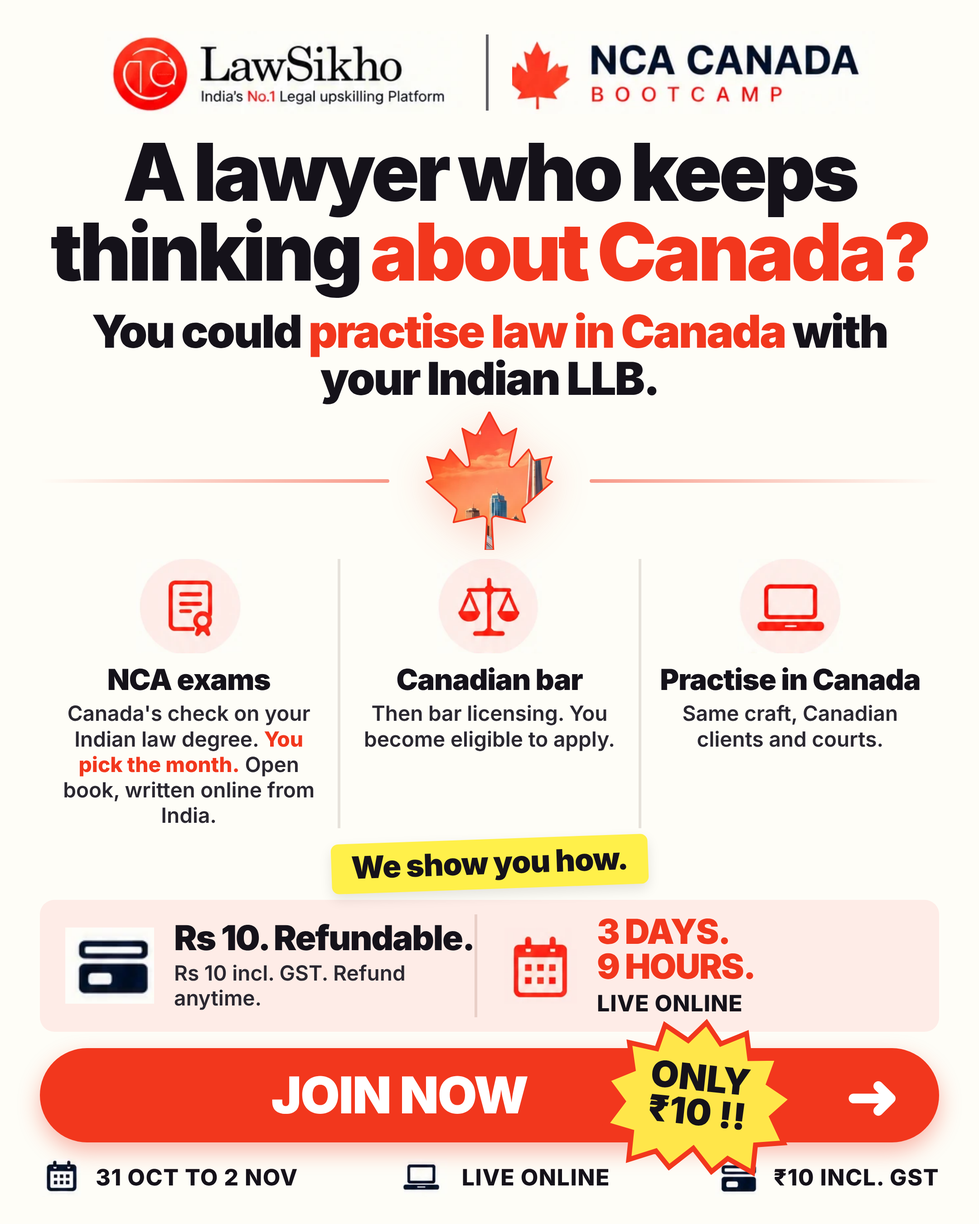
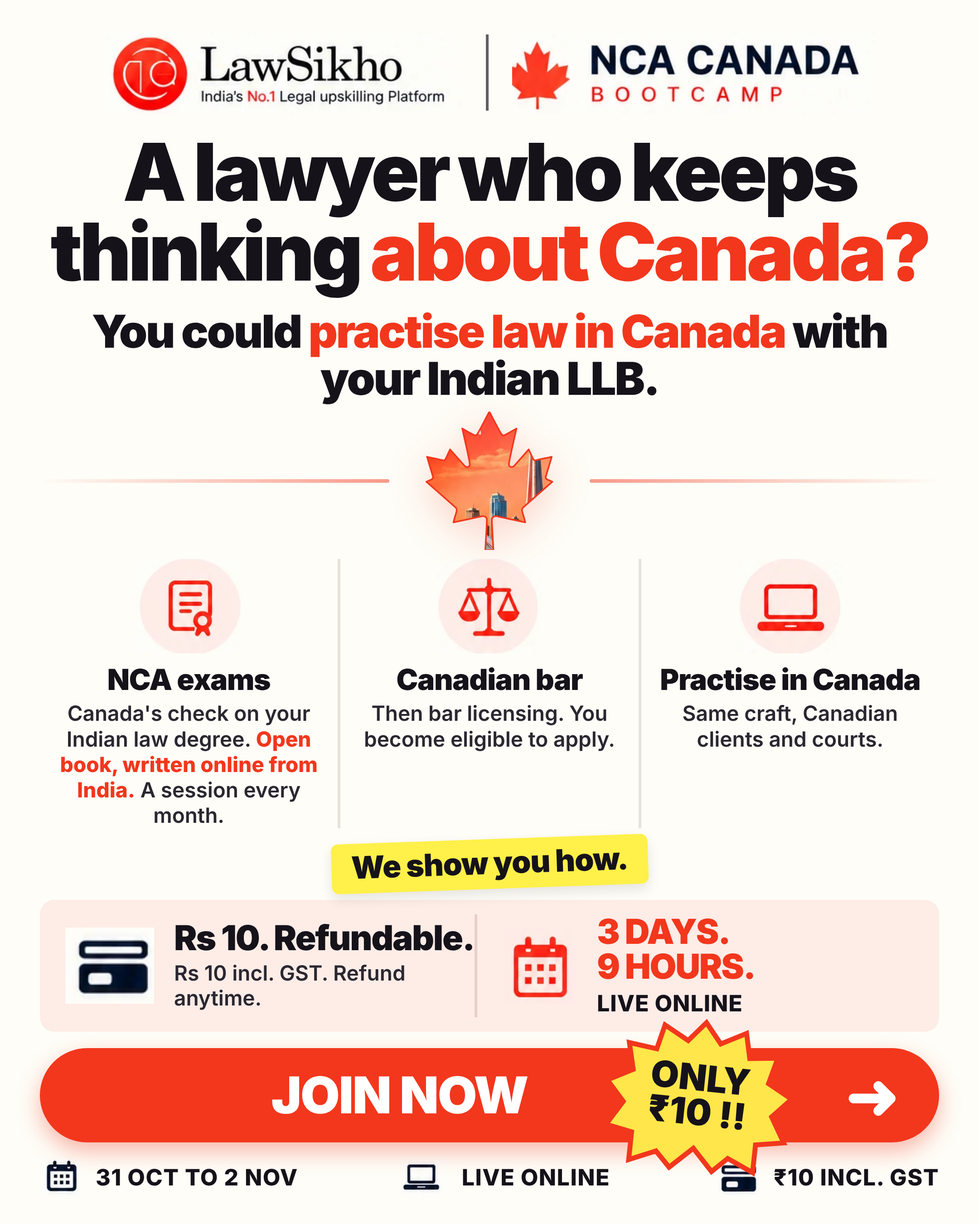
NCA exams pillar: match the checked exam-schedule fact
The base branch fix (sourced to nca.legal exam schedules) shows a session
runs every month but each core subject comes round about every third month,
so 'You pick the month' overclaimed. The line now reads: Open book, written
online from India. A session every month.

Claude-Session: https://claude.ai/code/session_01Rgy1nQS1Vhzfu9YdFrEqSi

Changed region(s): [[0.062, 0.5911, 0.3412, 0.6844]]

diff --git a/creatives/NCA_SkylineTemplate/html/nca_sky_01_broad_thinking_about_canada.html b/creatives/NCA_SkylineTemplate/html/nca_sky_01_broad_thinking_about_canada.html
@@ -46,7 +46,7 @@ em{font-style:normal;color:#F2371D}
 <div class="leafbox"><div class="rule l"></div><div class="leafwrap"><svg viewBox="0 0 512 512" preserveAspectRatio="xMidYMid meet"><defs><clipPath id="leaf"><path d="M383.8 351.7c2.5-2.5 105.2-92.4 105.2-92.4l-17.5-7.5c-10-4.9-7.4-11.5-5-17.4 2.4-7.6 20.1-67.3 20.1-67.3s-47.7 10-57.7 12.5c-7.5 2.4-10-2.5-12.5-7.5s-15-32.4-15-32.4-52.6 59.9-55.1 62.3c-10 7.5-20.1 0-17.6-10 0-10 27.6-129.6 27.6-129.6s-30.1 17.4-40.1 22.4c-7.5 5-12.6 5-17.6-5C293.5 72.3 255.9 0 255.9 0s-37.5 72.3-42.5 79.8c-5 10-10 10-17.6 5-10-5-40.1-22.4-40.1-22.4s27.6 119.6 27.6 129.6c2.5 10-7.5 17.5-17.5 10-2.5-2.5-55.1-62.3-55.1-62.3s-12.5 27.5-15 32.4c-2.5 5.1-5 10-12.5 7.5-10-2.5-57.7-12.5-57.7-12.5s17.7 59.7 20.1 67.3c2.4 6 5 12.5-5 17.4L23 259.3s102.6 89.9 105.2 92.4c5.1 5 10 7.5 5.1 22.5-5.1 15-10.1 35.1-10.1 35.1s95.2-20.1 105.3-22.6c8.7-.9 18.3 2.5 18.3 12.5S241 512 241 512h30s-5.8-102.7-5.8-112.8 9.5-13.4 18.3-12.5c10 2.5 105.3 22.6 105.3 22.6s-5-20.1-10.1-35.1c-4.9-15 0-17.5 5.1-22.5z"/></clipPath></defs>
 <image href="../assets/skyline_fill.png" x="0" y="0" width="512" height="512" preserveAspectRatio="xMidYMid slice" clip-path="url(#leaf)"/>
 <path d="M383.8 351.7c2.5-2.5 105.2-92.4 105.2-92.4l-17.5-7.5c-10-4.9-7.4-11.5-5-17.4 2.4-7.6 20.1-67.3 20.1-67.3s-47.7 10-57.7 12.5c-7.5 2.4-10-2.5-12.5-7.5s-15-32.4-15-32.4-52.6 59.9-55.1 62.3c-10 7.5-20.1 0-17.6-10 0-10 27.6-129.6 27.6-129.6s-30.1 17.4-40.1 22.4c-7.5 5-12.6 5-17.6-5C293.5 72.3 255.9 0 255.9 0s-37.5 72.3-42.5 79.8c-5 10-10 10-17.6 5-10-5-40.1-22.4-40.1-22.4s27.6 119.6 27.6 129.6c2.5 10-7.5 17.5-17.5 10-2.5-2.5-55.1-62.3-55.1-62.3s-12.5 27.5-15 32.4c-2.5 5.1-5 10-12.5 7.5-10-2.5-57.7-12.5-57.7-12.5s17.7 59.7 20.1 67.3c2.4 6 5 12.5-5 17.4L23 259.3s102.6 89.9 105.2 92.4c5.1 5 10 7.5 5.1 22.5-5.1 15-10.1 35.1-10.1 35.1s95.2-20.1 105.3-22.6c8.7-.9 18.3 2.5 18.3 12.5S241 512 241 512h30s-5.8-102.7-5.8-112.8 9.5-13.4 18.3-12.5c10 2.5 105.3 22.6 105.3 22.6s-5-20.1-10.1-35.1c-4.9-15 0-17.5 5.1-22.5z" fill="none" stroke="#F2371D" stroke-width="6" stroke-linejoin="round"/></svg></div><div class="rule r"></div></div>
-<div class="pillars"><div class="pil"><img src="../assets/icon_nca.png"><div class="pt">NCA exams</div><div class="pd">Canada's check on your Indian law degree. <em>You pick the month.</em> Open book, written online from India.</div></div><div class="pil"><img src="../assets/icon_bar.png"><div class="pt">Canadian bar</div><div class="pd">Then bar licensing. You become eligible to apply.</div></div><div class="pil"><img src="../assets/icon_laptop.png"><div class="pt">Practise in Canada</div><div class="pd">Same craft, Canadian clients and courts.</div></div></div>
+<div class="pillars"><div class="pil"><img src="../assets/icon_nca.png"><div class="pt">NCA exams</div><div class="pd">Canada's check on your Indian law degree. <em>Open book, written online from India.</em> A session every month.</div></div><div class="pil"><img src="../assets/icon_bar.png"><div class="pt">Canadian bar</div><div class="pd">Then bar licensing. You become eligible to apply.</div></div><div class="pil"><img src="../assets/icon_laptop.png"><div class="pt">Practise in Canada</div><div class="pd">Same craft, Canadian clients and courts.</div></div></div>
 <div class="sticker">We show you how.</div>
 <div class="band">
  <div class="cell"><img src="../assets/foot_card.png"><div><div class="cb">Rs 10. Refundable.</div><div class="cs">Rs 10 incl. GST. Refund anytime.</div></div></div>

diff --git a/creatives/NCA_SkylineTemplate/html/nca_sky_02_final_year_student.html b/creatives/NCA_SkylineTemplate/html/nca_sky_02_final_year_student.html
@@ -46,7 +46,7 @@ em{font-style:normal;color:#F2371D}
 <div class="leafbox"><div class="rule l"></div><div class="leafwrap"><svg viewBox="0 0 512 512" preserveAspectRatio="xMidYMid meet"><defs><clipPath id="leaf"><path d="M383.8 351.7c2.5-2.5 105.2-92.4 105.2-92.4l-17.5-7.5c-10-4.9-7.4-11.5-5-17.4 2.4-7.6 20.1-67.3 20.1-67.3s-47.7 10-57.7 12.5c-7.5 2.4-10-2.5-12.5-7.5s-15-32.4-15-32.4-52.6 59.9-55.1 62.3c-10 7.5-20.1 0-17.6-10 0-10 27.6-129.6 27.6-129.6s-30.1 17.4-40.1 22.4c-7.5 5-12.6 5-17.6-5C293.5 72.3 255.9 0 255.9 0s-37.5 72.3-42.5 79.8c-5 10-10 10-17.6 5-10-5-40.1-22.4-40.1-22.4s27.6 119.6 27.6 129.6c2.5 10-7.5 17.5-17.5 10-2.5-2.5-55.1-62.3-55.1-62.3s-12.5 27.5-15 32.4c-2.5 5.1-5 10-12.5 7.5-10-2.5-57.7-12.5-57.7-12.5s17.7 59.7 20.1 67.3c2.4 6 5 12.5-5 17.4L23 259.3s102.6 89.9 105.2 92.4c5.1 5 10 7.5 5.1 22.5-5.1 15-10.1 35.1-10.1 35.1s95.2-20.1 105.3-22.6c8.7-.9 18.3 2.5 18.3 12.5S241 512 241 512h30s-5.8-102.7-5.8-112.8 9.5-13.4 18.3-12.5c10 2.5 105.3 22.6 105.3 22.6s-5-20.1-10.1-35.1c-4.9-15 0-17.5 5.1-22.5z"/></clipPath></defs>
 <image href="../assets/skyline_fill.png" x="0" y="0" width="512" height="512" preserveAspectRatio="xMidYMid slice" clip-path="url(#leaf)"/>
 <path d="M383.8 351.7c2.5-2.5 105.2-92.4 105.2-92.4l-17.5-7.5c-10-4.9-7.4-11.5-5-17.4 2.4-7.6 20.1-67.3 20.1-67.3s-47.7 10-57.7 12.5c-7.5 2.4-10-2.5-12.5-7.5s-15-32.4-15-32.4-52.6 59.9-55.1 62.3c-10 7.5-20.1 0-17.6-10 0-10 27.6-129.6 27.6-129.6s-30.1 17.4-40.1 22.4c-7.5 5-12.6 5-17.6-5C293.5 72.3 255.9 0 255.9 0s-37.5 72.3-42.5 79.8c-5 10-10 10-17.6 5-10-5-40.1-22.4-40.1-22.4s27.6 119.6 27.6 129.6c2.5 10-7.5 17.5-17.5 10-2.5-2.5-55.1-62.3-55.1-62.3s-12.5 27.5-15 32.4c-2.5 5.1-5 10-12.5 7.5-10-2.5-57.7-12.5-57.7-12.5s17.7 59.7 20.1 67.3c2.4 6 5 12.5-5 17.4L23 259.3s102.6 89.9 105.2 92.4c5.1 5 10 7.5 5.1 22.5-5.1 15-10.1 35.1-10.1 35.1s95.2-20.1 105.3-22.6c8.7-.9 18.3 2.5 18.3 12.5S241 512 241 512h30s-5.8-102.7-5.8-112.8 9.5-13.4 18.3-12.5c10 2.5 105.3 22.6 105.3 22.6s-5-20.1-10.1-35.1c-4.9-15 0-17.5 5.1-22.5z" fill="none" stroke="#F2371D" stroke-width="6" stroke-linejoin="round"/></svg></div><div class="rule r"></div></div>
-<div class="pillars"><div class="pil"><img src="../assets/icon_nca.png"><div class="pt">NCA exams</div><div class="pd">Canada's check on your Indian law degree. <em>You pick the month.</em> Open book, written online from India.</div></div><div class="pil"><img src="../assets/icon_bar.png"><div class="pt">Canadian bar</div><div class="pd">Then bar licensing. You become eligible to apply.</div></div><div class="pil"><img src="../assets/icon_laptop.png"><div class="pt">Practise in Canada</div><div class="pd">Same craft, Canadian clients and courts.</div></div></div>
+<div class="pillars"><div class="pil"><img src="../assets/icon_nca.png"><div class="pt">NCA exams</div><div class="pd">Canada's check on your Indian law degree. <em>Open book, written online from India.</em> A session every month.</div></div><div class="pil"><img src="../assets/icon_bar.png"><div class="pt">Canadian bar</div><div class="pd">Then bar licensing. You become eligible to apply.</div></div><div class="pil"><img src="../assets/icon_laptop.png"><div class="pt">Practise in Canada</div><div class="pd">Same craft, Canadian clients and courts.</div></div></div>
 <div class="sticker">We show you how.</div>
 <div class="band">
  <div class="cell"><img src="../assets/foot_card.png"><div><div class="cb">Rs 10. Refundable.</div><div class="cs">Rs 10 incl. GST. Refund anytime.</div></div></div>

diff --git a/creatives/NCA_SkylineTemplate/html/nca_sky_03_fresh_graduate.html b/creatives/NCA_SkylineTemplate/html/nca_sky_03_fresh_graduate.html
@@ -46,7 +46,7 @@ em{font-style:normal;color:#F2371D}
 <div class="leafbox"><div class="rule l"></div><div class="leafwrap"><svg viewBox="0 0 512 512" preserveAspectRatio="xMidYMid meet"><defs><clipPath id="leaf"><path d="M383.8 351.7c2.5-2.5 105.2-92.4 105.2-92.4l-17.5-7.5c-10-4.9-7.4-11.5-5-17.4 2.4-7.6 20.1-67.3 20.1-67.3s-47.7 10-57.7 12.5c-7.5 2.4-10-2.5-12.5-7.5s-15-32.4-15-32.4-52.6 59.9-55.1 62.3c-10 7.5-20.1 0-17.6-10 0-10 27.6-129.6 27.6-129.6s-30.1 17.4-40.1 22.4c-7.5 5-12.6 5-17.6-5C293.5 72.3 255.9 0 255.9 0s-37.5 72.3-42.5 79.8c-5 10-10 10-17.6 5-10-5-40.1-22.4-40.1-22.4s27.6 119.6 27.6 129.6c2.5 10-7.5 17.5-17.5 10-2.5-2.5-55.1-62.3-55.1-62.3s-12.5 27.5-15 32.4c-2.5 5.1-5 10-12.5 7.5-10-2.5-57.7-12.5-57.7-12.5s17.7 59.7 20.1 67.3c2.4 6 5 12.5-5 17.4L23 259.3s102.6 89.9 105.2 92.4c5.1 5 10 7.5 5.1 22.5-5.1 15-10.1 35.1-10.1 35.1s95.2-20.1 105.3-22.6c8.7-.9 18.3 2.5 18.3 12.5S241 512 241 512h30s-5.8-102.7-5.8-112.8 9.5-13.4 18.3-12.5c10 2.5 105.3 22.6 105.3 22.6s-5-20.1-10.1-35.1c-4.9-15 0-17.5 5.1-22.5z"/></clipPath></defs>
 <image href="../assets/skyline_fill.png" x="0" y="0" width="512" height="512" preserveAspectRatio="xMidYMid slice" clip-path="url(#leaf)"/>
 <path d="M383.8 351.7c2.5-2.5 105.2-92.4 105.2-92.4l-17.5-7.5c-10-4.9-7.4-11.5-5-17.4 2.4-7.6 20.1-67.3 20.1-67.3s-47.7 10-57.7 12.5c-7.5 2.4-10-2.5-12.5-7.5s-15-32.4-15-32.4-52.6 59.9-55.1 62.3c-10 7.5-20.1 0-17.6-10 0-10 27.6-129.6 27.6-129.6s-30.1 17.4-40.1 22.4c-7.5 5-12.6 5-17.6-5C293.5 72.3 255.9 0 255.9 0s-37.5 72.3-42.5 79.8c-5 10-10 10-17.6 5-10-5-40.1-22.4-40.1-22.4s27.6 119.6 27.6 129.6c2.5 10-7.5 17.5-17.5 10-2.5-2.5-55.1-62.3-55.1-62.3s-12.5 27.5-15 32.4c-2.5 5.1-5 10-12.5 7.5-10-2.5-57.7-12.5-57.7-12.5s17.7 59.7 20.1 67.3c2.4 6 5 12.5-5 17.4L23 259.3s102.6 89.9 105.2 92.4c5.1 5 10 7.5 5.1 22.5-5.1 15-10.1 35.1-10.1 35.1s95.2-20.1 105.3-22.6c8.7-.9 18.3 2.5 18.3 12.5S241 512 241 512h30s-5.8-102.7-5.8-112.8 9.5-13.4 18.3-12.5c10 2.5 105.3 22.6 105.3 22.6s-5-20.1-10.1-35.1c-4.9-15 0-17.5 5.1-22.5z" fill="none" stroke="#F2371D" stroke-width="6" stroke-linejoin="round"/></svg></div><div class="rule r"></div></div>
-<div class="pillars"><div class="pil"><img src="../assets/icon_nca.png"><div class="pt">NCA exams</div><div class="pd">Canada's check on your Indian law degree. <em>You pick the month.</em> Open book, written online from India.</div></div><div class="pil"><img src="../assets/icon_bar.png"><div class="pt">Canadian bar</div><div class="pd">Then bar licensing. You become eligible to apply.</div></div><div class="pil"><img src="../assets/icon_laptop.png"><div class="pt">Practise in Canada</div><div class="pd">Same craft, Canadian clients and courts.</div></div></div>
+<div class="pillars"><div class="pil"><img src="../assets/icon_nca.png"><div class="pt">NCA exams</div><div class="pd">Canada's check on your Indian law degree. <em>Open book, written online from India.</em> A session every month.</div></div><div class="pil"><img src="../assets/icon_bar.png"><div class="pt">Canadian bar</div><div class="pd">Then bar licensing. You become eligible to apply.</div></div><div class="pil"><img src="../assets/icon_laptop.png"><div class="pt">Practise in Canada</div><div class="pd">Same craft, Canadian clients and courts.</div></div></div>
 <div class="sticker">We show you how.</div>
 <div class="band">
  <div class="cell"><img src="../assets/foot_card.png"><div><div class="cb">Rs 10. Refundable.</div><div class="cs">Rs 10 incl. GST. Refund anytime.</div></div></div>

diff --git a/creatives/NCA_SkylineTemplate/html/nca_sky_04_newly_enrolled_advocate.html b/creatives/NCA_SkylineTemplate/html/nca_sky_04_newly_enrolled_advocate.html
@@ -46,7 +46,7 @@ em{font-style:normal;color:#F2371D}
 <div class="leafbox"><div class="rule l"></div><div class="leafwrap"><svg viewBox="0 0 512 512" preserveAspectRatio="xMidYMid meet"><defs><clipPath id="leaf"><path d="M383.8 351.7c2.5-2.5 105.2-92.4 105.2-92.4l-17.5-7.5c-10-4.9-7.4-11.5-5-17.4 2.4-7.6 20.1-67.3 20.1-67.3s-47.7 10-57.7 12.5c-7.5 2.4-10-2.5-12.5-7.5s-15-32.4-15-32.4-52.6 59.9-55.1 62.3c-10 7.5-20.1 0-17.6-10 0-10 27.6-129.6 27.6-129.6s-30.1 17.4-40.1 22.4c-7.5 5-12.6 5-17.6-5C293.5 72.3 255.9 0 255.9 0s-37.5 72.3-42.5 79.8c-5 10-10 10-17.6 5-10-5-40.1-22.4-40.1-22.4s27.6 119.6 27.6 129.6c2.5 10-7.5 17.5-17.5 10-2.5-2.5-55.1-62.3-55.1-62.3s-12.5 27.5-15 32.4c-2.5 5.1-5 10-12.5 7.5-10-2.5-57.7-12.5-57.7-12.5s17.7 59.7 20.1 67.3c2.4 6 5 12.5-5 17.4L23 259.3s102.6 89.9 105.2 92.4c5.1 5 10 7.5 5.1 22.5-5.1 15-10.1 35.1-10.1 35.1s95.2-20.1 105.3-22.6c8.7-.9 18.3 2.5 18.3 12.5S241 512 241 512h30s-5.8-102.7-5.8-112.8 9.5-13.4 18.3-12.5c10 2.5 105.3 22.6 105.3 22.6s-5-20.1-10.1-35.1c-4.9-15 0-17.5 5.1-22.5z"/></clipPath></defs>
 <image href="../assets/skyline_fill.png" x="0" y="0" width="512" height="512" preserveAspectRatio="xMidYMid slice" clip-path="url(#leaf)"/>
 <path d="M383.8 351.7c2.5-2.5 105.2-92.4 105.2-92.4l-17.5-7.5c-10-4.9-7.4-11.5-5-17.4 2.4-7.6 20.1-67.3 20.1-67.3s-47.7 10-57.7 12.5c-7.5 2.4-10-2.5-12.5-7.5s-15-32.4-15-32.4-52.6 59.9-55.1 62.3c-10 7.5-20.1 0-17.6-10 0-10 27.6-129.6 27.6-129.6s-30.1 17.4-40.1 22.4c-7.5 5-12.6 5-17.6-5C293.5 72.3 255.9 0 255.9 0s-37.5 72.3-42.5 79.8c-5 10-10 10-17.6 5-10-5-40.1-22.4-40.1-22.4s27.6 119.6 27.6 129.6c2.5 10-7.5 17.5-17.5 10-2.5-2.5-55.1-62.3-55.1-62.3s-12.5 27.5-15 32.4c-2.5 5.1-5 10-12.5 7.5-10-2.5-57.7-12.5-57.7-12.5s17.7 59.7 20.1 67.3c2.4 6 5 12.5-5 17.4L23 259.3s102.6 89.9 105.2 92.4c5.1 5 10 7.5 5.1 22.5-5.1 15-10.1 35.1-10.1 35.1s95.2-20.1 105.3-22.6c8.7-.9 18.3 2.5 18.3 12.5S241 512 241 512h30s-5.8-102.7-5.8-112.8 9.5-13.4 18.3-12.5c10 2.5 105.3 22.6 105.3 22.6s-5-20.1-10.1-35.1c-4.9-15 0-17.5 5.1-22.5z" fill="none" stroke="#F2371D" stroke-width="6" stroke-linejoin="round"/></svg></div><div class="rule r"></div></div>
-<div class="pillars"><div class="pil"><img src="../assets/icon_nca.png"><div class="pt">NCA exams</div><div class="pd">Canada's check on your Indian law degree. <em>You pick the month.</em> Open book, written online from India.</div></div><div class="pil"><img src="../assets/icon_bar.png"><div class="pt">Canadian bar</div><div class="pd">Then bar licensing. You become eligible to apply.</div></div><div class="pil"><img src="../assets/icon_laptop.png"><div class="pt">Practise in Canada</div><div class="pd">Same craft, Canadian clients and courts.</div></div></div>
+<div class="pillars"><div class="pil"><img src="../assets/icon_nca.png"><div class="pt">NCA exams</div><div class="pd">Canada's check on your Indian law degree. <em>Open book, written online from India.</em> A session every month.</div></div><div class="pil"><img src="../assets/icon_bar.png"><div class="pt">Canadian bar</div><div class="pd">Then bar licensing. You become eligible to apply.</div></div><div class="pil"><img src="../assets/icon_laptop.png"><div class="pt">Practise in Canada</div><div class="pd">Same craft, Canadian clients and courts.</div></div></div>
 <div class="sticker">We show you how.</div>
 <div class="band">
  <div class="cell"><img src="../assets/foot_card.png"><div><div class="cb">Rs 10. Refundable.</div><div class="cs">Rs 10 incl. GST. Refund anytime.</div></div></div>

diff --git a/creatives/NCA_SkylineTemplate/html/nca_sky_05_experienced_advocate.html b/creatives/NCA_SkylineTemplate/html/nca_sky_05_experienced_advocate.html
@@ -46,7 +46,7 @@ em{font-style:normal;color:#F2371D}
 <div class="leafbox"><div class="rule l"></div><div class="leafwrap"><svg viewBox="0 0 512 512" preserveAspectRatio="xMidYMid meet"><defs><clipPath id="leaf"><path d="M383.8 351.7c2.5-2.5 105.2-92.4 105.2-92.4l-17.5-7.5c-10-4.9-7.4-11.5-5-17.4 2.4-7.6 20.1-67.3 20.1-67.3s-47.7 10-57.7 12.5c-7.5 2.4-10-2.5-12.5-7.5s-15-32.4-15-32.4-52.6 59.9-55.1 62.3c-10 7.5-20.1 0-17.6-10 0-10 27.6-129.6 27.6-129.6s-30.1 17.4-40.1 22.4c-7.5 5-12.6 5-17.6-5C293.5 72.3 255.9 0 255.9 0s-37.5 72.3-42.5 79.8c-5 10-10 10-17.6 5-10-5-40.1-22.4-40.1-22.4s27.6 119.6 27.6 129.6c2.5 10-7.5 17.5-17.5 10-2.5-2.5-55.1-62.3-55.1-62.3s-12.5 27.5-15 32.4c-2.5 5.1-5 10-12.5 7.5-10-2.5-57.7-12.5-57.7-12.5s17.7 59.7 20.1 67.3c2.4 6 5 12.5-5 17.4L23 259.3s102.6 89.9 105.2 92.4c5.1 5 10 7.5 5.1 22.5-5.1 15-10.1 35.1-10.1 35.1s95.2-20.1 105.3-22.6c8.7-.9 18.3 2.5 18.3 12.5S241 512 241 512h30s-5.8-102.7-5.8-112.8 9.5-13.4 18.3-12.5c10 2.5 105.3 22.6 105.3 22.6s-5-20.1-10.1-35.1c-4.9-15 0-17.5 5.1-22.5z"/></clipPath></defs>
 <image href="../assets/skyline_fill.png" x="0" y="0" width="512" height="512" preserveAspectRatio="xMidYMid slice" clip-path="url(#leaf)"/>
 <path d="M383.8 351.7c2.5-2.5 105.2-92.4 105.2-92.4l-17.5-7.5c-10-4.9-7.4-11.5-5-17.4 2.4-7.6 20.1-67.3 20.1-67.3s-47.7 10-57.7 12.5c-7.5 2.4-10-2.5-12.5-7.5s-15-32.4-15-32.4-52.6 59.9-55.1 62.3c-10 7.5-20.1 0-17.6-10 0-10 27.6-129.6 27.6-129.6s-30.1 17.4-40.1 22.4c-7.5 5-12.6 5-17.6-5C293.5 72.3 255.9 0 255.9 0s-37.5 72.3-42.5 79.8c-5 10-10 10-17.6 5-10-5-40.1-22.4-40.1-22.4s27.6 119.6 27.6 129.6c2.5 10-7.5 17.5-17.5 10-2.5-2.5-55.1-62.3-55.1-62.3s-12.5 27.5-15 32.4c-2.5 5.1-5 10-12.5 7.5-10-2.5-57.7-12.5-57.7-12.5s17.7 59.7 20.1 67.3c2.4 6 5 12.5-5 17.4L23 259.3s102.6 89.9 105.2 92.4c5.1 5 10 7.5 5.1 22.5-5.1 15-10.1 35.1-10.1 35.1s95.2-20.1 105.3-22.6c8.7-.9 18.3 2.5 18.3 12.5S241 512 241 512h30s-5.8-102.7-5.8-112.8 9.5-13.4 18.3-12.5c10 2.5 105.3 22.6 105.3 22.6s-5-20.1-10.1-35.1c-4.9-15 0-17.5 5.1-22.5z" fill="none" stroke="#F2371D" stroke-width="6" stroke-linejoin="round"/></svg></div><div class="rule r"></div></div>
-<div class="pillars"><div class="pil"><img src="../assets/icon_nca.png"><div class="pt">NCA exams</div><div class="pd">Canada's check on your Indian law degree. <em>You pick the month.</em> Open book, written online from India.</div></div><div class="pil"><img src="../assets/icon_bar.png"><div class="pt">Canadian bar</div><div class="pd">Then bar licensing. You become eligible to apply.</div></div><div class="pil"><img src="../assets/icon_laptop.png"><div class="pt">Practise in Canada</div><div class="pd">Same craft, Canadian clients and courts.</div></div></div>
+<div class="pillars"><div class="pil"><img src="../assets/icon_nca.png"><div class="pt">NCA exams</div><div class="pd">Canada's check on your Indian law degree. <em>Open book, written online from India.</em> A session every month.</div></div><div class="pil"><img src="../assets/icon_bar.png"><div class="pt">Canadian bar</div><div class="pd">Then bar licensing. You become eligible to apply.</div></div><div class="pil"><img src="../assets/icon_laptop.png"><div class="pt">Practise in Canada</div><div class="pd">Same craft, Canadian clients and courts.</div></div></div>
 <div class="sticker">We show you how.</div>
 <div class="band">
  <div class="cell"><img src="../assets/foot_card.png"><div><div class="cb">Rs 10. Refundable.</div><div class="cs">Rs 10 incl. GST. Refund anytime.</div></div></div>

diff --git a/creatives/NCA_SkylineTemplate/html/nca_sky_06_litigator.html b/creatives/NCA_SkylineTemplate/html/nca_sky_06_litigator.html
@@ -46,7 +46,7 @@ em{font-style:normal;color:#F2371D}
 <div class="leafbox"><div class="rule l"></div><div class="leafwrap"><svg viewBox="0 0 512 512" preserveAspectRatio="xMidYMid meet"><defs><clipPath id="leaf"><path d="M383.8 351.7c2.5-2.5 105.2-92.4 105.2-92.4l-17.5-7.5c-10-4.9-7.4-11.5-5-17.4 2.4-7.6 20.1-67.3 20.1-67.3s-47.7 10-57.7 12.5c-7.5 2.4-10-2.5-12.5-7.5s-15-32.4-15-32.4-52.6 59.9-55.1 62.3c-10 7.5-20.1 0-17.6-10 0-10 27.6-129.6 27.6-129.6s-30.1 17.4-40.1 22.4c-7.5 5-12.6 5-17.6-5C293.5 72.3 255.9 0 255.9 0s-37.5 72.3-42.5 79.8c-5 10-10 10-17.6 5-10-5-40.1-22.4-40.1-22.4s27.6 119.6 27.6 129.6c2.5 10-7.5 17.5-17.5 10-2.5-2.5-55.1-62.3-55.1-62.3s-12.5 27.5-15 32.4c-2.5 5.1-5 10-12.5 7.5-10-2.5-57.7-12.5-57.7-12.5s17.7 59.7 20.1 67.3c2.4 6 5 12.5-5 17.4L23 259.3s102.6 89.9 105.2 92.4c5.1 5 10 7.5 5.1 22.5-5.1 15-10.1 35.1-10.1 35.1s95.2-20.1 105.3-22.6c8.7-.9 18.3 2.5 18.3 12.5S241 512 241 512h30s-5.8-102.7-5.8-112.8 9.5-13.4 18.3-12.5c10 2.5 105.3 22.6 105.3 22.6s-5-20.1-10.1-35.1c-4.9-15 0-17.5 5.1-22.5z"/></clipPath></defs>
 <image href="../assets/skyline_fill.png" x="0" y="0" width="512" height="512" preserveAspectRatio="xMidYMid slice" clip-path="url(#leaf)"/>
 <path d="M383.8 351.7c2.5-2.5 105.2-92.4 105.2-92.4l-17.5-7.5c-10-4.9-7.4-11.5-5-17.4 2.4-7.6 20.1-67.3 20.1-67.3s-47.7 10-57.7 12.5c-7.5 2.4-10-2.5-12.5-7.5s-15-32.4-15-32.4-52.6 59.9-55.1 62.3c-10 7.5-20.1 0-17.6-10 0-10 27.6-129.6 27.6-129.6s-30.1 17.4-40.1 22.4c-7.5 5-12.6 5-17.6-5C293.5 72.3 255.9 0 255.9 0s-37.5 72.3-42.5 79.8c-5 10-10 10-17.6 5-10-5-40.1-22.4-40.1-22.4s27.6 119.6 27.6 129.6c2.5 10-7.5 17.5-17.5 10-2.5-2.5-55.1-62.3-55.1-62.3s-12.5 27.5-15 32.4c-2.5 5.1-5 10-12.5 7.5-10-2.5-57.7-12.5-57.7-12.5s17.7 59.7 20.1 67.3c2.4 6 5 12.5-5 17.4L23 259.3s102.6 89.9 105.2 92.4c5.1 5 10 7.5 5.1 22.5-5.1 15-10.1 35.1-10.1 35.1s95.2-20.1 105.3-22.6c8.7-.9 18.3 2.5 18.3 12.5S241 512 241 512h30s-5.8-102.7-5.8-112.8 9.5-13.4 18.3-12.5c10 2.5 105.3 22.6 105.3 22.6s-5-20.1-10.1-35.1c-4.9-15 0-17.5 5.1-22.5z" fill="none" stroke="#F2371D" stroke-width="6" stroke-linejoin="round"/></svg></div><div class="rule r"></div></div>
-<div class="pillars"><div class="pil"><img src="../assets/icon_nca.png"><div class="pt">NCA exams</div><div class="pd">Canada's check on your Indian law degree. <em>You pick the month.</em> Open book, written online from India.</div></div><div class="pil"><img src="../assets/icon_bar.png"><div class="pt">Canadian bar</div><div class="pd">Then bar licensing. You become eligible to apply.</div></div><div class="pil"><img src="../assets/icon_laptop.png"><div class="pt">Practise in Canada</div><div class="pd">Same craft, Canadian clients and courts.</div></div></div>
+<div class="pillars"><div class="pil"><img src="../assets/icon_nca.png"><div class="pt">NCA exams</div><div class="pd">Canada's check on your Indian law degree. <em>Open book, written online from India.</em> A session every month.</div></div><div class="pil"><img src="../assets/icon_bar.png"><div class="pt">Canadian bar</div><div class="pd">Then bar licensing. You become eligible to apply.</div></div><div class="pil"><img src="../assets/icon_laptop.png"><div class="pt">Practise in Canada</div><div class="pd">Same craft, Canadian clients and courts.</div></div></div>
 <div class="sticker">We show you how.</div>
 <div class="band">
  <div class="cell"><img src="../assets/foot_card.png"><div><div class="cb">Rs 10. Refundable.</div><div class="cs">Rs 10 incl. GST. Refund anytime.</div></div></div>

diff --git a/creatives/NCA_SkylineTemplate/html/nca_sky_07_corporate_contract_lawyer.html b/creatives/NCA_SkylineTemplate/html/nca_sky_07_corporate_contract_lawyer.html
@@ -46,7 +46,7 @@ em{font-style:normal;color:#F2371D}
 <div class="leafbox"><div class="rule l"></div><div class="leafwrap"><svg viewBox="0 0 512 512" preserveAspectRatio="xMidYMid meet"><defs><clipPath id="leaf"><path d="M383.8 351.7c2.5-2.5 105.2-92.4 105.2-92.4l-17.5-7.5c-10-4.9-7.4-11.5-5-17.4 2.4-7.6 20.1-67.3 20.1-67.3s-47.7 10-57.7 12.5c-7.5 2.4-10-2.5-12.5-7.5s-15-32.4-15-32.4-52.6 59.9-55.1 62.3c-10 7.5-20.1 0-17.6-10 0-10 27.6-129.6 27.6-129.6s-30.1 17.4-40.1 22.4c-7.5 5-12.6 5-17.6-5C293.5 72.3 255.9 0 255.9 0s-37.5 72.3-42.5 79.8c-5 10-10 10-17.6 5-10-5-40.1-22.4-40.1-22.4s27.6 119.6 27.6 129.6c2.5 10-7.5 17.5-17.5 10-2.5-2.5-55.1-62.3-55.1-62.3s-12.5 27.5-15 32.4c-2.5 5.1-5 10-12.5 7.5-10-2.5-57.7-12.5-57.7-12.5s17.7 59.7 20.1 67.3c2.4 6 5 12.5-5 17.4L23 259.3s102.6 89.9 105.2 92.4c5.1 5 10 7.5 5.1 22.5-5.1 15-10.1 35.1-10.1 35.1s95.2-20.1 105.3-22.6c8.7-.9 18.3 2.5 18.3 12.5S241 512 241 512h30s-5.8-102.7-5.8-112.8 9.5-13.4 18.3-12.5c10 2.5 105.3 22.6 105.3 22.6s-5-20.1-10.1-35.1c-4.9-15 0-17.5 5.1-22.5z"/></clipPath></defs>
 <image href="../assets/skyline_fill.png" x="0" y="0" width="512" height="512" preserveAspectRatio="xMidYMid slice" clip-path="url(#leaf)"/>
 <path d="M383.8 351.7c2.5-2.5 105.2-92.4 105.2-92.4l-17.5-7.5c-10-4.9-7.4-11.5-5-17.4 2.4-7.6 20.1-67.3 20.1-67.3s-47.7 10-57.7 12.5c-7.5 2.4-10-2.5-12.5-7.5s-15-32.4-15-32.4-52.6 59.9-55.1 62.3c-10 7.5-20.1 0-17.6-10 0-10 27.6-129.6 27.6-129.6s-30.1 17.4-40.1 22.4c-7.5 5-12.6 5-17.6-5C293.5 72.3 255.9 0 255.9 0s-37.5 72.3-42.5 79.8c-5 10-10 10-17.6 5-10-5-40.1-22.4-40.1-22.4s27.6 119.6 27.6 129.6c2.5 10-7.5 17.5-17.5 10-2.5-2.5-55.1-62.3-55.1-62.3s-12.5 27.5-15 32.4c-2.5 5.1-5 10-12.5 7.5-10-2.5-57.7-12.5-57.7-12.5s17.7 59.7 20.1 67.3c2.4 6 5 12.5-5 17.4L23 259.3s102.6 89.9 105.2 92.4c5.1 5 10 7.5 5.1 22.5-5.1 15-10.1 35.1-10.1 35.1s95.2-20.1 105.3-22.6c8.7-.9 18.3 2.5 18.3 12.5S241 512 241 512h30s-5.8-102.7-5.8-112.8 9.5-13.4 18.3-12.5c10 2.5 105.3 22.6 105.3 22.6s-5-20.1-10.1-35.1c-4.9-15 0-17.5 5.1-22.5z" fill="none" stroke="#F2371D" stroke-width="6" stroke-linejoin="round"/></svg></div><div class="rule r"></div></div>
-<div class="pillars"><div class="pil"><img src="../assets/icon_nca.png"><div class="pt">NCA exams</div><div class="pd">Canada's check on your Indian law degree. <em>You pick the month.</em> Open book, written online from India.</div></div><div class="pil"><img src="../assets/icon_bar.png"><div class="pt">Canadian bar</div><div class="pd">Then bar licensing. You become eligible to apply.</div></div><div class="pil"><img src="../assets/icon_laptop.png"><div class="pt">Practise in Canada</div><div class="pd">Same craft, Canadian clients and courts.</div></div></div>
+<div class="pillars"><div class="pil"><img src="../assets/icon_nca.png"><div class="pt">NCA exams</div><div class="pd">Canada's check on your Indian law degree. <em>Open book, written online from India.</em> A session every month.</div></div><div class="pil"><img src="../assets/icon_bar.png"><div class="pt">Canadian bar</div><div class="pd">Then bar licensing. You become eligible to apply.</div></div><div class="pil"><img src="../assets/icon_laptop.png"><div class="pt">Practise in Canada</div><div class="pd">Same craft, Canadian clients and courts.</div></div></div>
 <div class="sticker">We show you how.</div>
 <div class="band">
  <div class="cell"><img src="../assets/foot_card.png"><div><div class="cb">Rs 10. Refundable.</div><div class="cs">Rs 10 incl. GST. Refund anytime.</div></div></div>

diff --git a/creatives/NCA_SkylineTemplate/html/nca_sky_08_law_firm_associate.html b/creatives/NCA_SkylineTemplate/html/nca_sky_08_law_firm_associate.html
@@ -46,7 +46,7 @@ em{font-style:normal;color:#F2371D}
 <div class="leafbox"><div class="rule l"></div><div class="leafwrap"><svg viewBox="0 0 512 512" preserveAspectRatio="xMidYMid meet"><defs><clipPath id="leaf"><path d="M383.8 351.7c2.5-2.5 105.2-92.4 105.2-92.4l-17.5-7.5c-10-4.9-7.4-11.5-5-17.4 2.4-7.6 20.1-67.3 20.1-67.3s-47.7 10-57.7 12.5c-7.5 2.4-10-2.5-12.5-7.5s-15-32.4-15-32.4-52.6 59.9-55.1 62.3c-10 7.5-20.1 0-17.6-10 0-10 27.6-129.6 27.6-129.6s-30.1 17.4-40.1 22.4c-7.5 5-12.6 5-17.6-5C293.5 72.3 255.9 0 255.9 0s-37.5 72.3-42.5 79.8c-5 10-10 10-17.6 5-10-5-40.1-22.4-40.1-22.4s27.6 119.6 27.6 129.6c2.5 10-7.5 17.5-17.5 10-2.5-2.5-55.1-62.3-55.1-62.3s-12.5 27.5-15 32.4c-2.5 5.1-5 10-12.5 7.5-10-2.5-57.7-12.5-57.7-12.5s17.7 59.7 20.1 67.3c2.4 6 5 12.5-5 17.4L23 259.3s102.6 89.9 105.2 92.4c5.1 5 10 7.5 5.1 22.5-5.1 15-10.1 35.1-10.1 35.1s95.2-20.1 105.3-22.6c8.7-.9 18.3 2.5 18.3 12.5S241 512 241 512h30s-5.8-102.7-5.8-112.8 9.5-13.4 18.3-12.5c10 2.5 105.3 22.6 105.3 22.6s-5-20.1-10.1-35.1c-4.9-15 0-17.5 5.1-22.5z"/></clipPath></defs>
 <image href="../assets/skyline_fill.png" x="0" y="0" width="512" height="512" preserveAspectRatio="xMidYMid slice" clip-path="url(#leaf)"/>
 <path d="M383.8 351.7c2.5-2.5 105.2-92.4 105.2-92.4l-17.5-7.5c-10-4.9-7.4-11.5-5-17.4 2.4-7.6 20.1-67.3 20.1-67.3s-47.7 10-57.7 12.5c-7.5 2.4-10-2.5-12.5-7.5s-15-32.4-15-32.4-52.6 59.9-55.1 62.3c-10 7.5-20.1 0-17.6-10 0-10 27.6-129.6 27.6-129.6s-30.1 17.4-40.1 22.4c-7.5 5-12.6 5-17.6-5C293.5 72.3 255.9 0 255.9 0s-37.5 72.3-42.5 79.8c-5 10-10 10-17.6 5-10-5-40.1-22.4-40.1-22.4s27.6 119.6 27.6 129.6c2.5 10-7.5 17.5-17.5 10-2.5-2.5-55.1-62.3-55.1-62.3s-12.5 27.5-15 32.4c-2.5 5.1-5 10-12.5 7.5-10-2.5-57.7-12.5-57.7-12.5s17.7 59.7 20.1 67.3c2.4 6 5 12.5-5 17.4L23 259.3s102.6 89.9 105.2 92.4c5.1 5 10 7.5 5.1 22.5-5.1 15-10.1 35.1-10.1 35.1s95.2-20.1 105.3-22.6c8.7-.9 18.3 2.5 18.3 12.5S241 512 241 512h30s-5.8-102.7-5.8-112.8 9.5-13.4 18.3-12.5c10 2.5 105.3 22.6 105.3 22.6s-5-20.1-10.1-35.1c-4.9-15 0-17.5 5.1-22.5z" fill="none" stroke="#F2371D" stroke-width="6" stroke-linejoin="round"/></svg></div><div class="rule r"></div></div>
-<div class="pillars"><div class="pil"><img src="../assets/icon_nca.png"><div class="pt">NCA exams</div><div class="pd">Canada's check on your Indian law degree. <em>You pick the month.</em> Open book, written online from India.</div></div><div class="pil"><img src="../assets/icon_bar.png"><div class="pt">Canadian bar</div><div class="pd">Then bar licensing. You become eligible to apply.</div></div><div class="pil"><img src="../assets/icon_laptop.png"><div class="pt">Practise in Canada</div><div class="pd">Same craft, Canadian clients and courts.</div></div></div>
+<div class="pillars"><div class="pil"><img src="../assets/icon_nca.png"><div class="pt">NCA exams</div><div class="pd">Canada's check on your Indian law degree. <em>Open book, written online from India.</em> A session every month.</div></div><div class="pil"><img src="../assets/icon_bar.png"><div class="pt">Canadian bar</div><div class="pd">Then bar licensing. You become eligible to apply.</div></div><div class="pil"><img src="../assets/icon_laptop.png"><div class="pt">Practise in Canada</div><div class="pd">Same craft, Canadian clients and courts.</div></div></div>
 <div class="sticker">We show you how.</div>
 <div class="band">
  <div class="cell"><img src="../assets/foot_card.png"><div><div class="cb">Rs 10. Refundable.</div><div class="cs">Rs 10 incl. GST. Refund anytime.</div></div></div>

diff --git a/creatives/NCA_SkylineTemplate/html/nca_sky_09_moving_to_canada.html b/creatives/NCA_SkylineTemplate/html/nca_sky_09_moving_to_canada.html
@@ -46,7 +46,7 @@ em{font-style:normal;color:#F2371D}
 <div class="leafbox"><div class="rule l"></div><div class="leafwrap"><svg viewBox="0 0 512 512" preserveAspectRatio="xMidYMid meet"><defs><clipPath id="leaf"><path d="M383.8 351.7c2.5-2.5 105.2-92.4 105.2-92.4l-17.5-7.5c-10-4.9-7.4-11.5-5-17.4 2.4-7.6 20.1-67.3 20.1-67.3s-47.7 10-57.7 12.5c-7.5 2.4-10-2.5-12.5-7.5s-15-32.4-15-32.4-52.6 59.9-55.1 62.3c-10 7.5-20.1 0-17.6-10 0-10 27.6-129.6 27.6-129.6s-30.1 17.4-40.1 22.4c-7.5 5-12.6 5-17.6-5C293.5 72.3 255.9 0 255.9 0s-37.5 72.3-42.5 79.8c-5 10-10 10-17.6 5-10-5-40.1-22.4-40.1-22.4s27.6 119.6 27.6 129.6c2.5 10-7.5 17.5-17.5 10-2.5-2.5-55.1-62.3-55.1-62.3s-12.5 27.5-15 32.4c-2.5 5.1-5 10-12.5 7.5-10-2.5-57.7-12.5-57.7-12.5s17.7 59.7 20.1 67.3c2.4 6 5 12.5-5 17.4L23 259.3s102.6 89.9 105.2 92.4c5.1 5 10 7.5 5.1 22.5-5.1 15-10.1 35.1-10.1 35.1s95.2-20.1 105.3-22.6c8.7-.9 18.3 2.5 18.3 12.5S241 512 241 512h30s-5.8-102.7-5.8-112.8 9.5-13.4 18.3-12.5c10 2.5 105.3 22.6 105.3 22.6s-5-20.1-10.1-35.1c-4.9-15 0-17.5 5.1-22.5z"/></clipPath></defs>
 <image href="../assets/skyline_fill.png" x="0" y="0" width="512" height="512" preserveAspectRatio="xMidYMid slice" clip-path="url(#leaf)"/>
 <path d="M383.8 351.7c2.5-2.5 105.2-92.4 105.2-92.4l-17.5-7.5c-10-4.9-7.4-11.5-5-17.4 2.4-7.6 20.1-67.3 20.1-67.3s-47.7 10-57.7 12.5c-7.5 2.4-10-2.5-12.5-7.5s-15-32.4-15-32.4-52.6 59.9-55.1 62.3c-10 7.5-20.1 0-17.6-10 0-10 27.6-129.6 27.6-129.6s-30.1 17.4-40.1 22.4c-7.5 5-12.6 5-17.6-5C293.5 72.3 255.9 0 255.9 0s-37.5 72.3-42.5 79.8c-5 10-10 10-17.6 5-10-5-40.1-22.4-40.1-22.4s27.6 119.6 27.6 129.6c2.5 10-7.5 17.5-17.5 10-2.5-2.5-55.1-62.3-55.1-62.3s-12.5 27.5-15 32.4c-2.5 5.1-5 10-12.5 7.5-10-2.5-57.7-12.5-57.7-12.5s17.7 59.7 20.1 67.3c2.4 6 5 12.5-5 17.4L23 259.3s102.6 89.9 105.2 92.4c5.1 5 10 7.5 5.1 22.5-5.1 15-10.1 35.1-10.1 35.1s95.2-20.1 105.3-22.6c8.7-.9 18.3 2.5 18.3 12.5S241 512 241 512h30s-5.8-102.7-5.8-112.8 9.5-13.4 18.3-12.5c10 2.5 105.3 22.6 105.3 22.6s-5-20.1-10.1-35.1c-4.9-15 0-17.5 5.1-22.5z" fill="none" stroke="#F2371D" stroke-width="6" stroke-linejoin="round"/></svg></div><div class="rule r"></div></div>
-<div class="pillars"><div class="pil"><img src="../assets/icon_nca.png"><div class="pt">NCA exams</div><div class="pd">Canada's check on your Indian law degree. <em>You pick the month.</em> Open book, written online from India.</div></div><div class="pil"><img src="../assets/icon_bar.png"><div class="pt">Canadian bar</div><div class="pd">Then bar licensing. You become eligible to apply.</div></div><div class="pil"><img src="../assets/icon_laptop.png"><div class="pt">Practise in Canada</div><div class="pd">Same craft, Canadian clients and courts.</div></div></div>
+<div class="pillars"><div class="pil"><img src="../assets/icon_nca.png"><div class="pt">NCA exams</div><div class="pd">Canada's check on your Indian law degree. <em>Open book, written online from India.</em> A session every month.</div></div><div class="pil"><img src="../assets/icon_bar.png"><div class="pt">Canadian bar</div><div class="pd">Then bar licensing. You become eligible to apply.</div></div><div class="pil"><img src="../assets/icon_laptop.png"><div class="pt">Practise in Canada</div><div class="pd">Same craft, Canadian clients and courts.</div></div></div>
 <div class="sticker">We show you how.</div>
 <div class="band">
  <div class="cell"><img src="../assets/foot_card.png"><div><div class="cb">Rs 10. Refundable.</div><div class="cs">Rs 10 incl. GST. Refund anytime.</div></div></div>

diff --git a/creatives/NCA_SkylineTemplate/html/nca_sky_10_in_house_counsel.html b/creatives/NCA_SkylineTemplate/html/nca_sky_10_in_house_counsel.html
@@ -46,7 +46,7 @@ em{font-style:normal;color:#F2371D}
 <div class="leafbox"><div class="rule l"></div><div class="leafwrap"><svg viewBox="0 0 512 512" preserveAspectRatio="xMidYMid meet"><defs><clipPath id="leaf"><path d="M383.8 351.7c2.5-2.5 105.2-92.4 105.2-92.4l-17.5-7.5c-10-4.9-7.4-11.5-5-17.4 2.4-7.6 20.1-67.3 20.1-67.3s-47.7 10-57.7 12.5c-7.5 2.4-10-2.5-12.5-7.5s-15-32.4-15-32.4-52.6 59.9-55.1 62.3c-10 7.5-20.1 0-17.6-10 0-10 27.6-129.6 27.6-129.6s-30.1 17.4-40.1 22.4c-7.5 5-12.6 5-17.6-5C293.5 72.3 255.9 0 255.9 0s-37.5 72.3-42.5 79.8c-5 10-10 10-17.6 5-10-5-40.1-22.4-40.1-22.4s27.6 119.6 27.6 129.6c2.5 10-7.5 17.5-17.5 10-2.5-2.5-55.1-62.3-55.1-62.3s-12.5 27.5-15 32.4c-2.5 5.1-5 10-12.5 7.5-10-2.5-57.7-12.5-57.7-12.5s17.7 59.7 20.1 67.3c2.4 6 5 12.5-5 17.4L23 259.3s102.6 89.9 105.2 92.4c5.1 5 10 7.5 5.1 22.5-5.1 15-10.1 35.1-10.1 35.1s95.2-20.1 105.3-22.6c8.7-.9 18.3 2.5 18.3 12.5S241 512 241 512h30s-5.8-102.7-5.8-112.8 9.5-13.4 18.3-12.5c10 2.5 105.3 22.6 105.3 22.6s-5-20.1-10.1-35.1c-4.9-15 0-17.5 5.1-22.5z"/></clipPath></defs>
 <image href="../assets/skyline_fill.png" x="0" y="0" width="512" height="512" preserveAspectRatio="xMidYMid slice" clip-path="url(#leaf)"/>
 <path d="M383.8 351.7c2.5-2.5 105.2-92.4 105.2-92.4l-17.5-7.5c-10-4.9-7.4-11.5-5-17.4 2.4-7.6 20.1-67.3 20.1-67.3s-47.7 10-57.7 12.5c-7.5 2.4-10-2.5-12.5-7.5s-15-32.4-15-32.4-52.6 59.9-55.1 62.3c-10 7.5-20.1 0-17.6-10 0-10 27.6-129.6 27.6-129.6s-30.1 17.4-40.1 22.4c-7.5 5-12.6 5-17.6-5C293.5 72.3 255.9 0 255.9 0s-37.5 72.3-42.5 79.8c-5 10-10 10-17.6 5-10-5-40.1-22.4-40.1-22.4s27.6 119.6 27.6 129.6c2.5 10-7.5 17.5-17.5 10-2.5-2.5-55.1-62.3-55.1-62.3s-12.5 27.5-15 32.4c-2.5 5.1-5 10-12.5 7.5-10-2.5-57.7-12.5-57.7-12.5s17.7 59.7 20.1 67.3c2.4 6 5 12.5-5 17.4L23 259.3s102.6 89.9 105.2 92.4c5.1 5 10 7.5 5.1 22.5-5.1 15-10.1 35.1-10.1 35.1s95.2-20.1 105.3-22.6c8.7-.9 18.3 2.5 18.3 12.5S241 512 241 512h30s-5.8-102.7-5.8-112.8 9.5-13.4 18.3-12.5c10 2.5 105.3 22.6 105.3 22.6s-5-20.1-10.1-35.1c-4.9-15 0-17.5 5.1-22.5z" fill="none" stroke="#F2371D" stroke-width="6" stroke-linejoin="round"/></svg></div><div class="rule r"></div></div>
-<div class="pillars"><div class="pil"><img src="../assets/icon_nca.png"><div class="pt">NCA exams</div><div class="pd">Canada's check on your Indian law degree. <em>You pick the month.</em> Open book, written online from India.</div></div><div class="pil"><img src="../assets/icon_bar.png"><div class="pt">Canadian bar</div><div class="pd">Then bar licensing. You become eligible to apply.</div></div><div class="pil"><img src="../assets/icon_laptop.png"><div class="pt">Practise in Canada</div><div class="pd">Same craft, Canadian clients and courts.</div></div></div>
+<div class="pillars"><div class="pil"><img src="../assets/icon_nca.png"><div class="pt">NCA exams</div><div class="pd">Canada's check on your Indian law degree. <em>Open book, written online from India.</em> A session every month.</div></div><div class="pil"><img src="../assets/icon_bar.png"><div class="pt">Canadian bar</div><div class="pd">Then bar licensing. You become eligible to apply.</div></div><div class="pil"><img src="../assets/icon_laptop.png"><div class="pt">Practise in Canada</div><div class="pd">Same craft, Canadian clients and courts.</div></div></div>
 <div class="sticker">We show you how.</div>
 <div class="band">
  <div class="cell"><img src="../assets/foot_card.png"><div><div class="cb">Rs 10. Refundable.</div><div class="cs">Rs 10 incl. GST. Refund anytime.</div></div></div>

diff --git a/creatives/NCA_SkylineTemplate/template.py b/creatives/NCA_SkylineTemplate/template.py
@@ -22,7 +22,7 @@ DEFAULTS = dict(
     prize_max_height=108, prize_max_px=68,
     # FIXED FOR THE WAVE. Three route pillars: NCA exams, then bar licensing, then practise.
     pillars=[
-        ("icon_nca.png", "NCA exams", "Canada's check on your Indian law degree. <em>You pick the month.</em> Open book, written online from India."),
+        ("icon_nca.png", "NCA exams", "Canada's check on your Indian law degree. <em>Open book, written online from India.</em> A session every month."),
         ("icon_bar.png", "Canadian bar", "Then bar licensing. You become eligible to apply."),
         ("icon_laptop.png", "Practise in Canada", "Same craft, Canadian clients and courts."),
     ],
